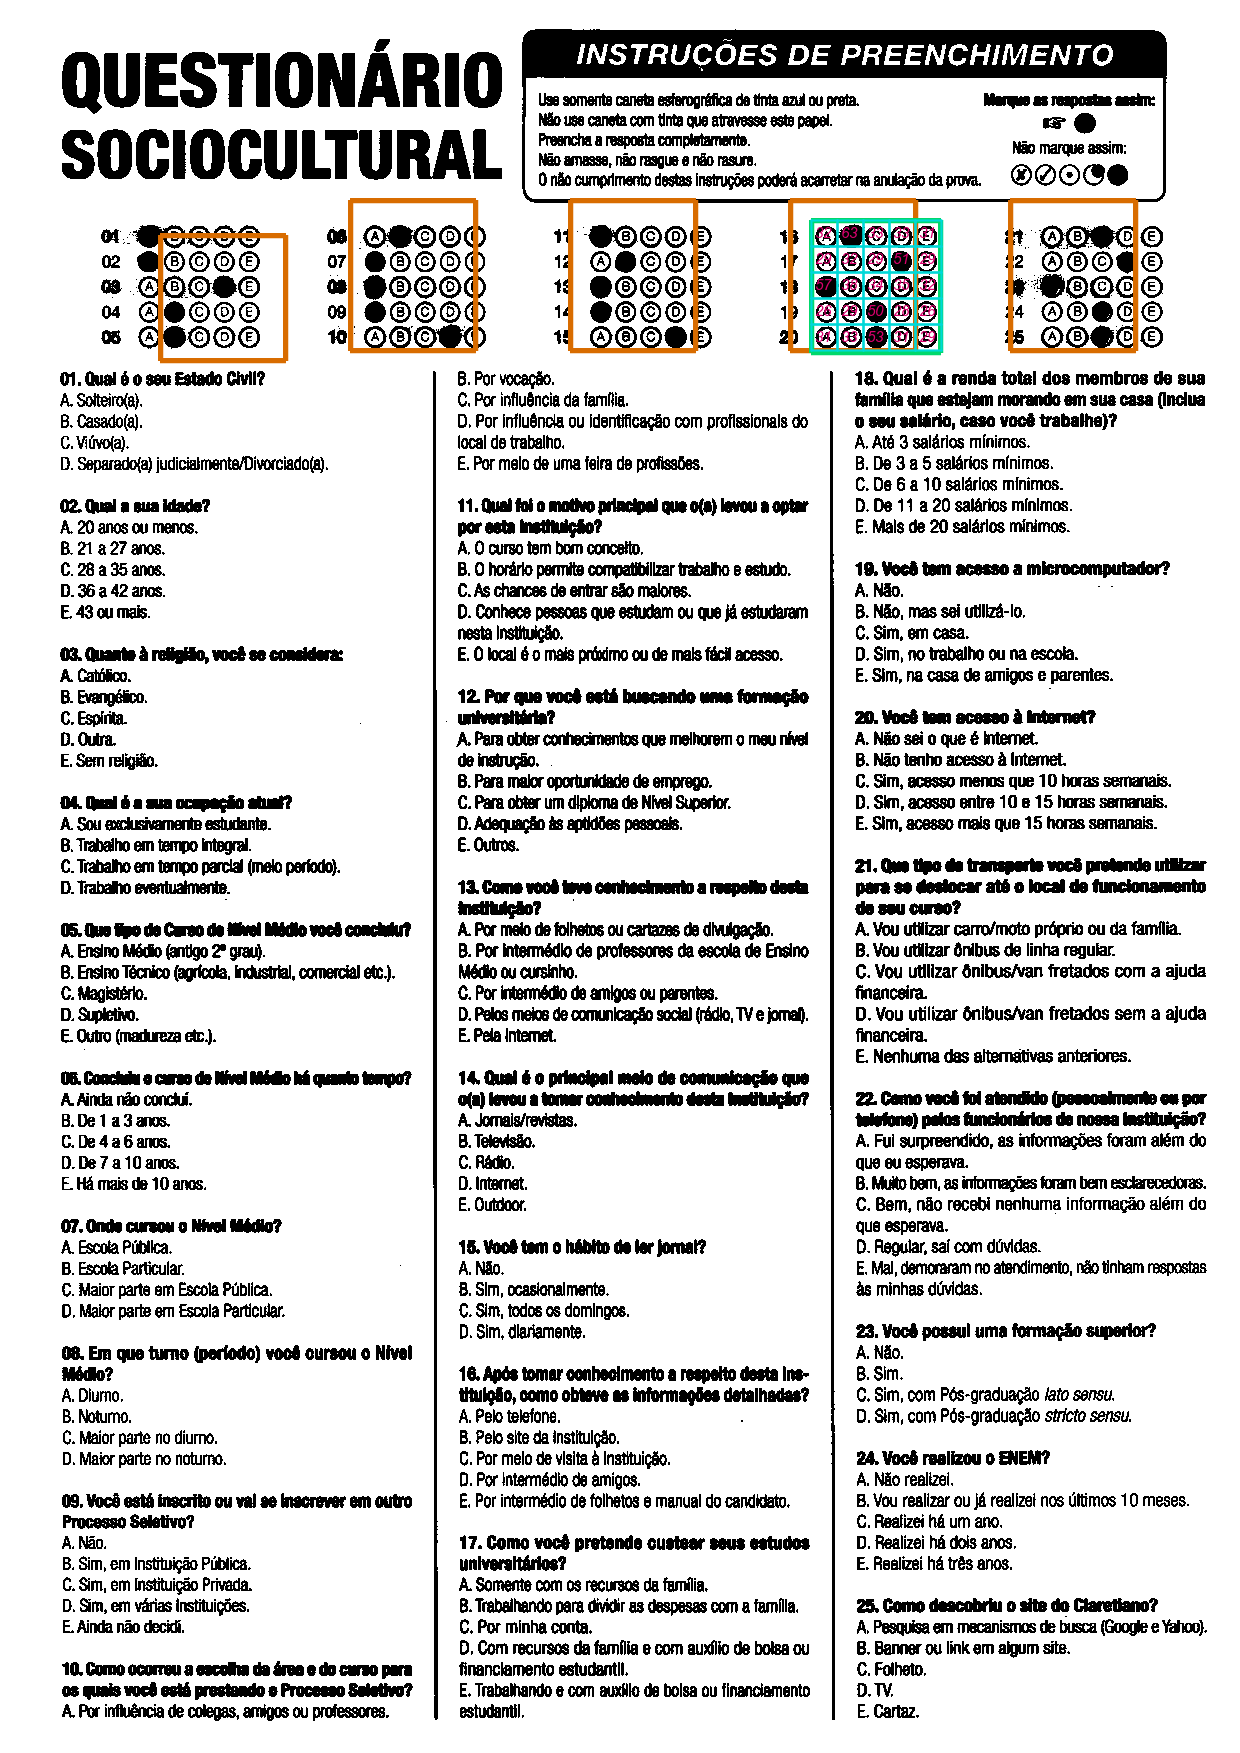
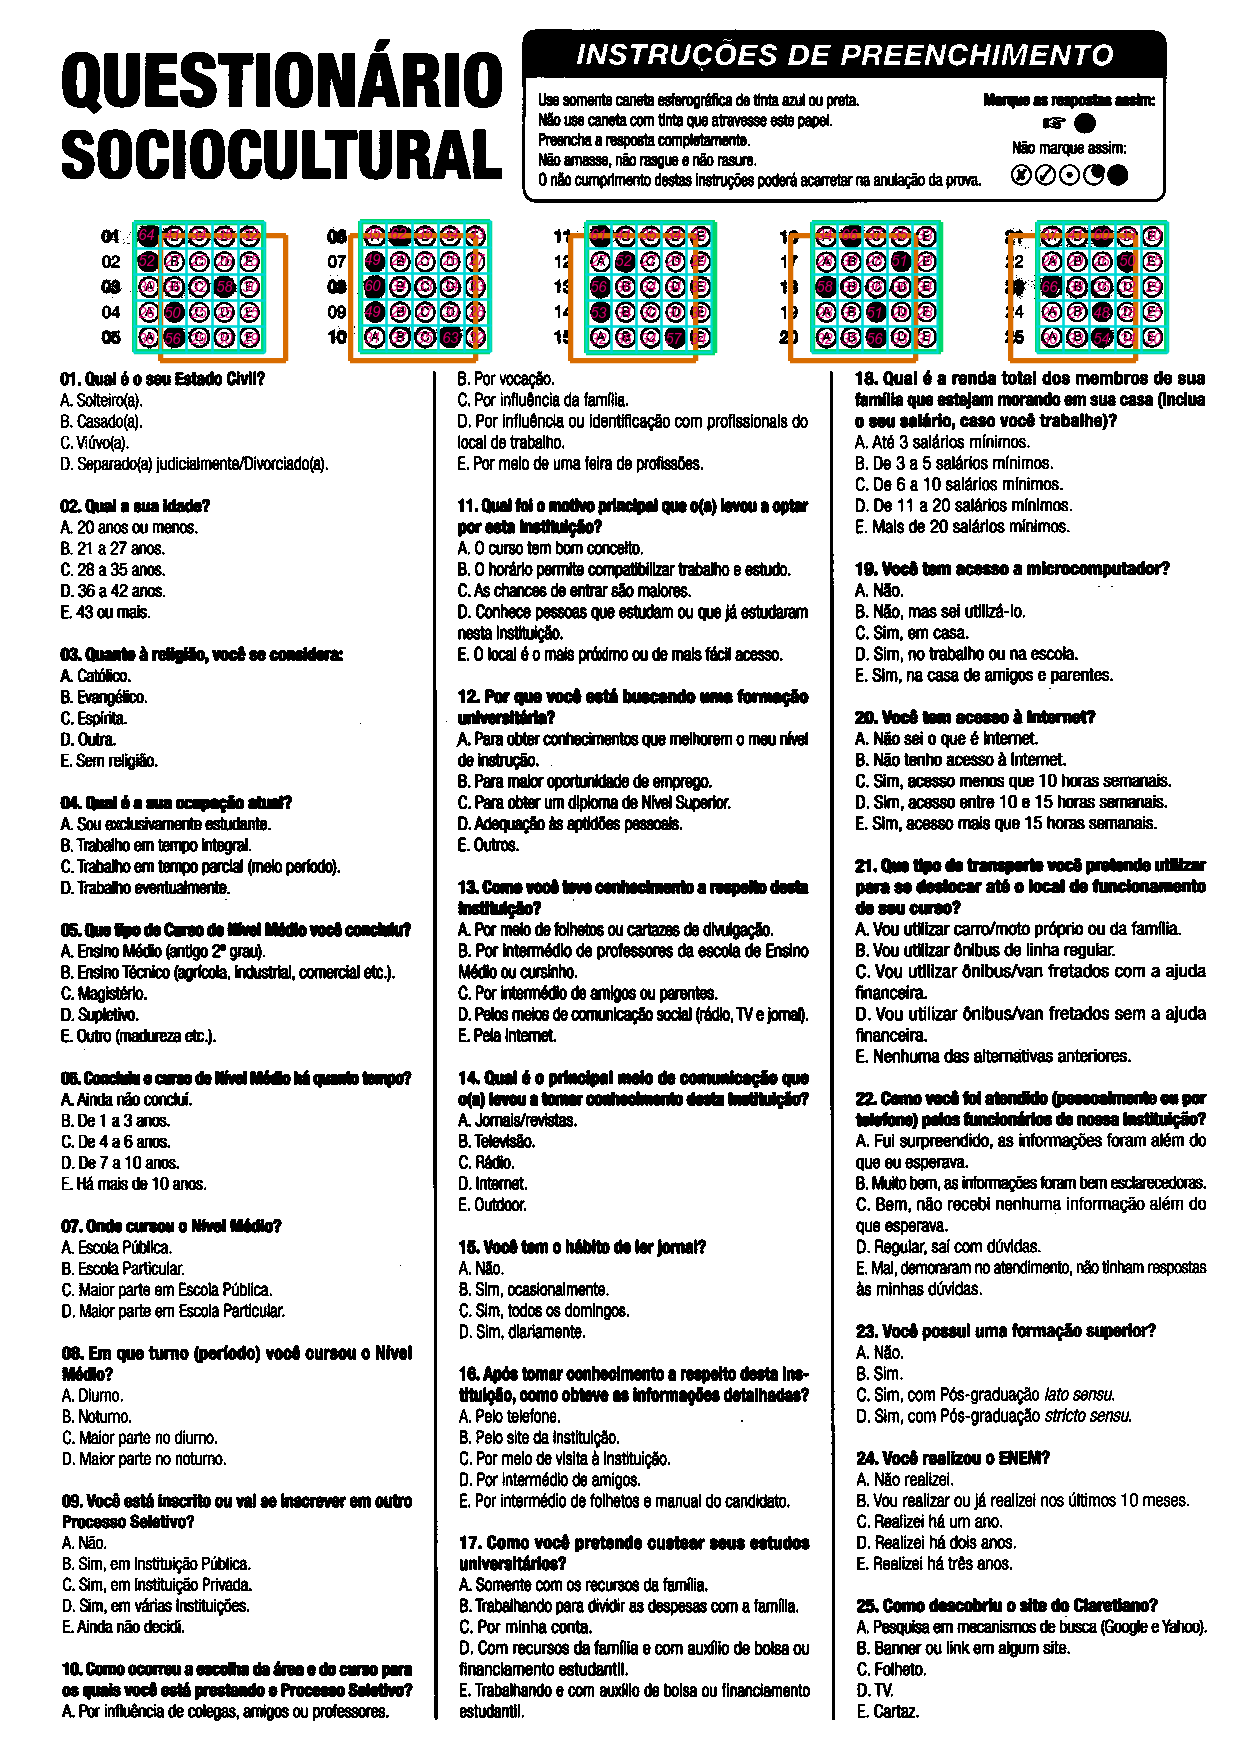
Floodscan optimized for grid strategy

diff --git a/lib/ruby_marks/recognizer.rb b/lib/ruby_marks/recognizer.rb
@@ -119,26 +119,48 @@ module RubyMarks
     end
 
 
-    def detect_groups    
-      file_str = RubyMarks::ImageUtils.export_file_to_str(@file)
-      original_file_str = RubyMarks::ImageUtils.export_file_to_str(@original_file)
-      incorrect_bubble_line_found = Hash.new { |hash, key| hash[key] = [] }
-      bubbles_adjusted = []
-      incorrect_expected_lines = false
-
-      @groups.each_pair do |label, group|
-        next unless group.expected_coordinates.any?
-
-        line = 0
-        group_center = RubyMarks::ImageUtils.image_center(group.expected_coordinates)
-
-        block = find_block_marks(file_str, group_center[:x], group_center[:y], group)
-        if block
-          group.coordinates = {x1: block[:x1], x2: block[:x2], y1: block[:y1], y2: block[:y2]}
+    def detect_groups
+      if @config.scan_mode == :grid
+        scaner = RubyMarks::FloodScan.new
+        @groups.each_pair do |label, group|
+          group_center = RubyMarks::ImageUtils.image_center(group.expected_coordinates)
+          x = group_center[:x]
+          y = group_center[:y]
+          width = RubyMarks::ImageUtils.calc_width(group.expected_coordinates[:x1], group.expected_coordinates[:x2])
+          height = RubyMarks::ImageUtils.calc_height(group.expected_coordinates[:y1], group.expected_coordinates[:y2])
           
-          if @config.scan_mode == :grid
+          block = scaner.scan(@file.dup, Magick::Point.new(x, y), width, height)
+          if block
+            group.coordinates = {x1: block[:x1], x2: block[:x2], y1: block[:y1], y2: block[:y2]}
             marks_blocks = find_marks_grid(group)
-          else
+            marks_blocks.each do |mark|
+              mark_width  = RubyMarks::ImageUtils.calc_width(mark[:x1], mark[:x2])
+              mark_height = RubyMarks::ImageUtils.calc_height(mark[:y1], mark[:y2])
+              mark_file = @original_file.crop(mark[:x1], mark[:y1], mark_width, mark_height)
+              o_mark = RubyMarks::Mark.new group: group, 
+                                           coordinates: {x1: mark[:x1], y1: mark[:y1], x2: mark[:x2], y2: mark[:y2]},
+                                           image_str: RubyMarks::ImageUtils.export_file_to_str(mark_file),
+                                           line: mark[:line]
+              group.marks[mark[:line]] << o_mark
+            end            
+          end
+        end
+      else
+        file_str = RubyMarks::ImageUtils.export_file_to_str(@file)
+        original_file_str = RubyMarks::ImageUtils.export_file_to_str(@original_file)
+        incorrect_bubble_line_found = Hash.new { |hash, key| hash[key] = [] }
+        bubbles_adjusted = []
+        incorrect_expected_lines = false
+
+        @groups.each_pair do |label, group|
+          next unless group.expected_coordinates.any?
+
+          line = 0
+          group_center = RubyMarks::ImageUtils.image_center(group.expected_coordinates)
+
+          block = find_block_marks(file_str, group_center[:x], group_center[:y], group)
+          if block
+            group.coordinates = {x1: block[:x1], x2: block[:x2], y1: block[:y1], y2: block[:y2]}
             marks_blocks = find_marks(original_file_str, group)
             marks_blocks.sort!{ |a,b| a[:y1] <=> b[:y1] }
             mark_ant = nil
@@ -237,33 +259,32 @@ module RubyMarks
               end
             
             end
-          end
 
-          marks_blocks.each do |mark|
-            mark_width  = RubyMarks::ImageUtils.calc_width(mark[:x1], mark[:x2])
-            mark_height = RubyMarks::ImageUtils.calc_height(mark[:y1], mark[:y2])
-            mark_file = @original_file.crop(mark[:x1], mark[:y1], mark_width, mark_height)
-            o_mark = RubyMarks::Mark.new group: group, 
-                                         coordinates: {x1: mark[:x1], y1: mark[:y1], x2: mark[:x2], y2: mark[:y2]},
-                                         image_str: RubyMarks::ImageUtils.export_file_to_str(mark_file),
-                                         line: mark[:line]
-            group.marks[mark[:line]] << o_mark
-          end
-
-          incorrect_expected_lines = group.incorrect_expected_lines
-
-          group.marks.each_pair do |line, marks|
-            if marks.count != group.marks_options.count 
-              incorrect_bubble_line_found[group.label.to_sym] << line
+            marks_blocks.each do |mark|
+              mark_width  = RubyMarks::ImageUtils.calc_width(mark[:x1], mark[:x2])
+              mark_height = RubyMarks::ImageUtils.calc_height(mark[:y1], mark[:y2])
+              mark_file = @original_file.crop(mark[:x1], mark[:y1], mark_width, mark_height)
+              o_mark = RubyMarks::Mark.new group: group, 
+                                           coordinates: {x1: mark[:x1], y1: mark[:y1], x2: mark[:x2], y2: mark[:y2]},
+                                           image_str: RubyMarks::ImageUtils.export_file_to_str(mark_file),
+                                           line: mark[:line]
+              group.marks[mark[:line]] << o_mark
             end
-          end   
-        end
-      end  
-      @groups_detected = true
-      if incorrect_bubble_line_found.any? || bubbles_adjusted.any? || incorrect_expected_lines 
-        raise_watcher :incorrect_group_watcher, incorrect_expected_lines, incorrect_bubble_line_found, bubbles_adjusted.flatten 
-      end
 
+            incorrect_expected_lines = group.incorrect_expected_lines
+
+            group.marks.each_pair do |line, marks|
+              if marks.count != group.marks_options.count 
+                incorrect_bubble_line_found[group.label.to_sym] << line
+              end
+            end   
+          end
+        end  
+        @groups_detected = true
+        if incorrect_bubble_line_found.any? || bubbles_adjusted.any? || incorrect_expected_lines 
+          raise_watcher :incorrect_group_watcher, incorrect_expected_lines, incorrect_bubble_line_found, bubbles_adjusted.flatten 
+        end
+      end
     end
 
 
@@ -334,9 +355,9 @@ module RubyMarks
         block_width  = RubyMarks::ImageUtils.calc_width(block[:x1], block[:x2])
         block_height = RubyMarks::ImageUtils.calc_height(block[:y1], block[:y2])
         lines   = group.expected_lines
-        columns = @config.default_marks_options.size
-        distance_lin = (block_width / columns).ceil #@config.default_mark_height
-        distance_col = (block_height / lines).ceil #@config.default_mark_width
+        columns = group.marks_options.size
+        distance_lin = (block_height / lines).ceil 
+        distance_col = (block_width / columns).ceil
         lines.times do |lin|
           columns.times do |col|
 
@@ -345,13 +366,6 @@ module RubyMarks
                         :x2 => block[:x1] + (col * distance_col) + distance_col,
                         :y2 => block[:y1] + (lin * distance_lin) + distance_lin,
                         :line => lin + 1 }
-=begin
-            blocks << { :x1 => @config.edge_level + block[:x1] + (col * distance_col) + ((col % 2 == 1) ? 0 : 1), 
-                        :y1 => @config.edge_level + block[:y1] + (lin * distance_lin) + ((lin % 2 == 1) ? 0 : 1), 
-                        :x2 => @config.edge_level + block[:x1] + (col * distance_col) + distance_col + ((col % 2 == 1) ? 0 : 1),
-                        :y2 => @config.edge_level + block[:y1] + (lin * distance_lin) + distance_lin + ((lin % 2 == 1) ? 0 : 1),
-                        :line => lin + 1 }
-=end
           end
         end
       end    
@@ -433,7 +447,7 @@ module RubyMarks
           end        
         rescue Timeout::Error
           raise_watcher :timed_out_watcher
-          return false
+          return file
         end  
 
         @groups.each_pair do |label, group|  

diff --git a/test/ruby_marks/recognizer_grid_test.rb b/test/ruby_marks/recognizer_grid_test.rb
@@ -5,15 +5,13 @@ class RubyMarks::RecognizerGridTest < Test::Unit::TestCase
   def setup 
     @file = 'assets/sheet_demo_grid.png'
     @recognizer = RubyMarks::Recognizer.new
-    @positions = {}
-    @positions[:marked_position] = {x: 161, y: 794}
-    @positions[:unmarked_position] = {x: 161, y: 994}
 
     @recognizer.configure do |config|  
     
       config.scan_mode = :grid
+      config.edge_level = 4
       config.default_expected_lines = 5
-      config.intensity_percentual = 50
+      config.intensity_percentual = 45
       config.default_mark_height = 25
       config.default_mark_width = 25
       config.auto_ajust_block_width = :right
@@ -24,24 +22,26 @@ class RubyMarks::RecognizerGridTest < Test::Unit::TestCase
       end
 
       config.define_group :dois do |group|
-        group.expected_coordinates = {x1: 350, y1: 200, x2: 475, y2: 350}
+        group.expected_coordinates = {x1: 350, y1: 235, x2: 475, y2: 360}
       end
 
       config.define_group :tres do |group|
-        group.expected_coordinates = {x1: 570, y1: 200, x2: 695, y2: 350}
+        group.expected_coordinates = {x1: 570, y1: 235, x2: 695, y2: 360}
       end
 
       config.define_group :quatro do |group|
-        group.expected_coordinates = {x1: 790, y1: 200, x2: 915, y2: 350}
+        group.expected_coordinates = {x1: 790, y1: 235, x2: 915, y2: 360}
       end
 
       config.define_group :cinco do |group|
-        group.expected_coordinates = {x1: 1010, y1: 200, x2: 1135, y2: 350}
+        group.expected_coordinates = {x1: 1010, y1: 235, x2: 1135, y2: 360}
       end
     end
 
     @recognizer.file = @file
 
+    file = @recognizer.file
+    file.write("sheet_demo_grid3.png")
   end
 
   def test_should_return_the_recognizer_with_all_marks_flagged
@@ -98,4 +98,5 @@ class RubyMarks::RecognizerGridTest < Test::Unit::TestCase
     result.delete_if { |group, lines| lines.empty? }
     assert_equal expected_hash, result 
   end
+
 end

diff --git a/lib/ruby_marks/flood_scan.rb b/lib/ruby_marks/flood_scan.rb
@@ -1,0 +1,53 @@
+module RubyMarks
+
+  class FloodScan
+
+    def scan(image, node, width, height)
+      target = Magick::Pixel.new(65535, 65535, 65535, 0) 
+      replacement = Magick::Pixel.new(0, 0, 0, 0)
+      queue = Array.new
+      queue.push(node) 
+      vx = Hash.new { |hash, key| hash[key] = [] }
+      vy = Hash.new { |hash, key| hash[key] = [] }
+      steps = 0
+      until queue.empty?
+        node = queue.shift
+        x = node.x
+        y = node.y
+        span_up = false;
+        span_down = false;
+        while x > 0 && image.get_pixels(x - 1, y, 1, 1)[0] == target
+          x -= 1
+        end
+        while x < image.columns && image.get_pixels(x, y, 1, 1)[0] == target
+          image.store_pixels(x, y, 1, 1, [replacement]) 
+          if !span_up && y > 0 && image.get_pixels(x, y - 1, 1, 1)[0] == target
+            queue.push(Magick::Point.new(x, y - 1))
+            span_up = true
+          elsif span_up && y > 0 && image.get_pixels(x, y - 1, 1, 1)[0] != target
+            span_up = false
+          end
+          if !span_down && y < image.rows - 1 && image.get_pixels(x, y + 1, 1, 1)[0] == target
+            queue.push(Magick::Point.new(x, y + 1))
+            span_down = true
+          elsif span_down && y < image.rows - 1 && image.get_pixels(x, y + 1, 1, 1)[0] != target
+            span_down = false
+          end
+          vx[y] << x 
+          vy[x] << y
+          x += 1
+          steps += 1
+        end
+        queue.push(Magick::Point.new(x, y - 1)) if queue.empty? && steps < 100 
+      end
+      vx = vx.find_mesure(width, 5).max_frequency
+      vy = vy.find_mesure(height, 5).max_frequency
+      if vx && vy
+        {x1: vx[0][0], y1: vy[0][0], x2: vx[0][1], y2: vy[0][1]}
+      else
+        {}
+      end
+    end
+  end
+
+end

diff --git a/lib/ruby_marks.rb b/lib/ruby_marks.rb
@@ -68,9 +68,36 @@ module RubyMarks
   ]
 end
 
+class Array
+  def to_ranges
+    compact.sort.uniq.inject([]) do |r,x|
+      r.empty? || r.last.last.succ != x ? r << [x,x] : r[0..-2] << [r.last.first, x]
+    end
+  end
+
+  def max_frequency
+    group_by{ |w| w }
+    .map{ |w, v| [w, v.size] }
+    .max { |a, b| a[1] <=> b[1] }
+  end
+end
+
+class Hash
+  def find_mesure(measure, tolerance)
+    ax = []
+    each do |k, v|
+      max = v.max { |a, b| a <=> b }
+      min = v.min { |a, b| a <=> b }
+      ax << [min, max] if max - min >= measure - tolerance && max - min <= measure + tolerance 
+    end
+    ax  
+  end
+end
+
 require 'ruby_marks/config'
 require 'ruby_marks/group'
 require 'ruby_marks/image_utils'
 require 'ruby_marks/mark'
 require 'ruby_marks/recognizer'
 require 'ruby_marks/watcher'
+require 'ruby_marks/flood_scan'

diff --git a/test/ruby_marks/recognizer_test.rb b/test/ruby_marks/recognizer_test.rb
@@ -1,7 +1,7 @@
 require "test_helper"
 
 class RubyMarks::RecognizerTest < Test::Unit::TestCase
-  
+=begin
   def setup 
     @file = 'assets/sheet_demo1.png'
     @recognizer = RubyMarks::Recognizer.new
@@ -42,7 +42,6 @@ class RubyMarks::RecognizerTest < Test::Unit::TestCase
 
   end
 
-=begin
   def test_should_initialize_a_recognizer_with_a_valid_file
     assert_equal @file, @recognizer.filename
   end

diff --git a/lib/ruby_marks/version.rb b/lib/ruby_marks/version.rb
@@ -1,3 +1,3 @@
 module RubyMarks
-  VERSION = "0.3.6".freeze
+  VERSION = "0.4.0".freeze
 end
